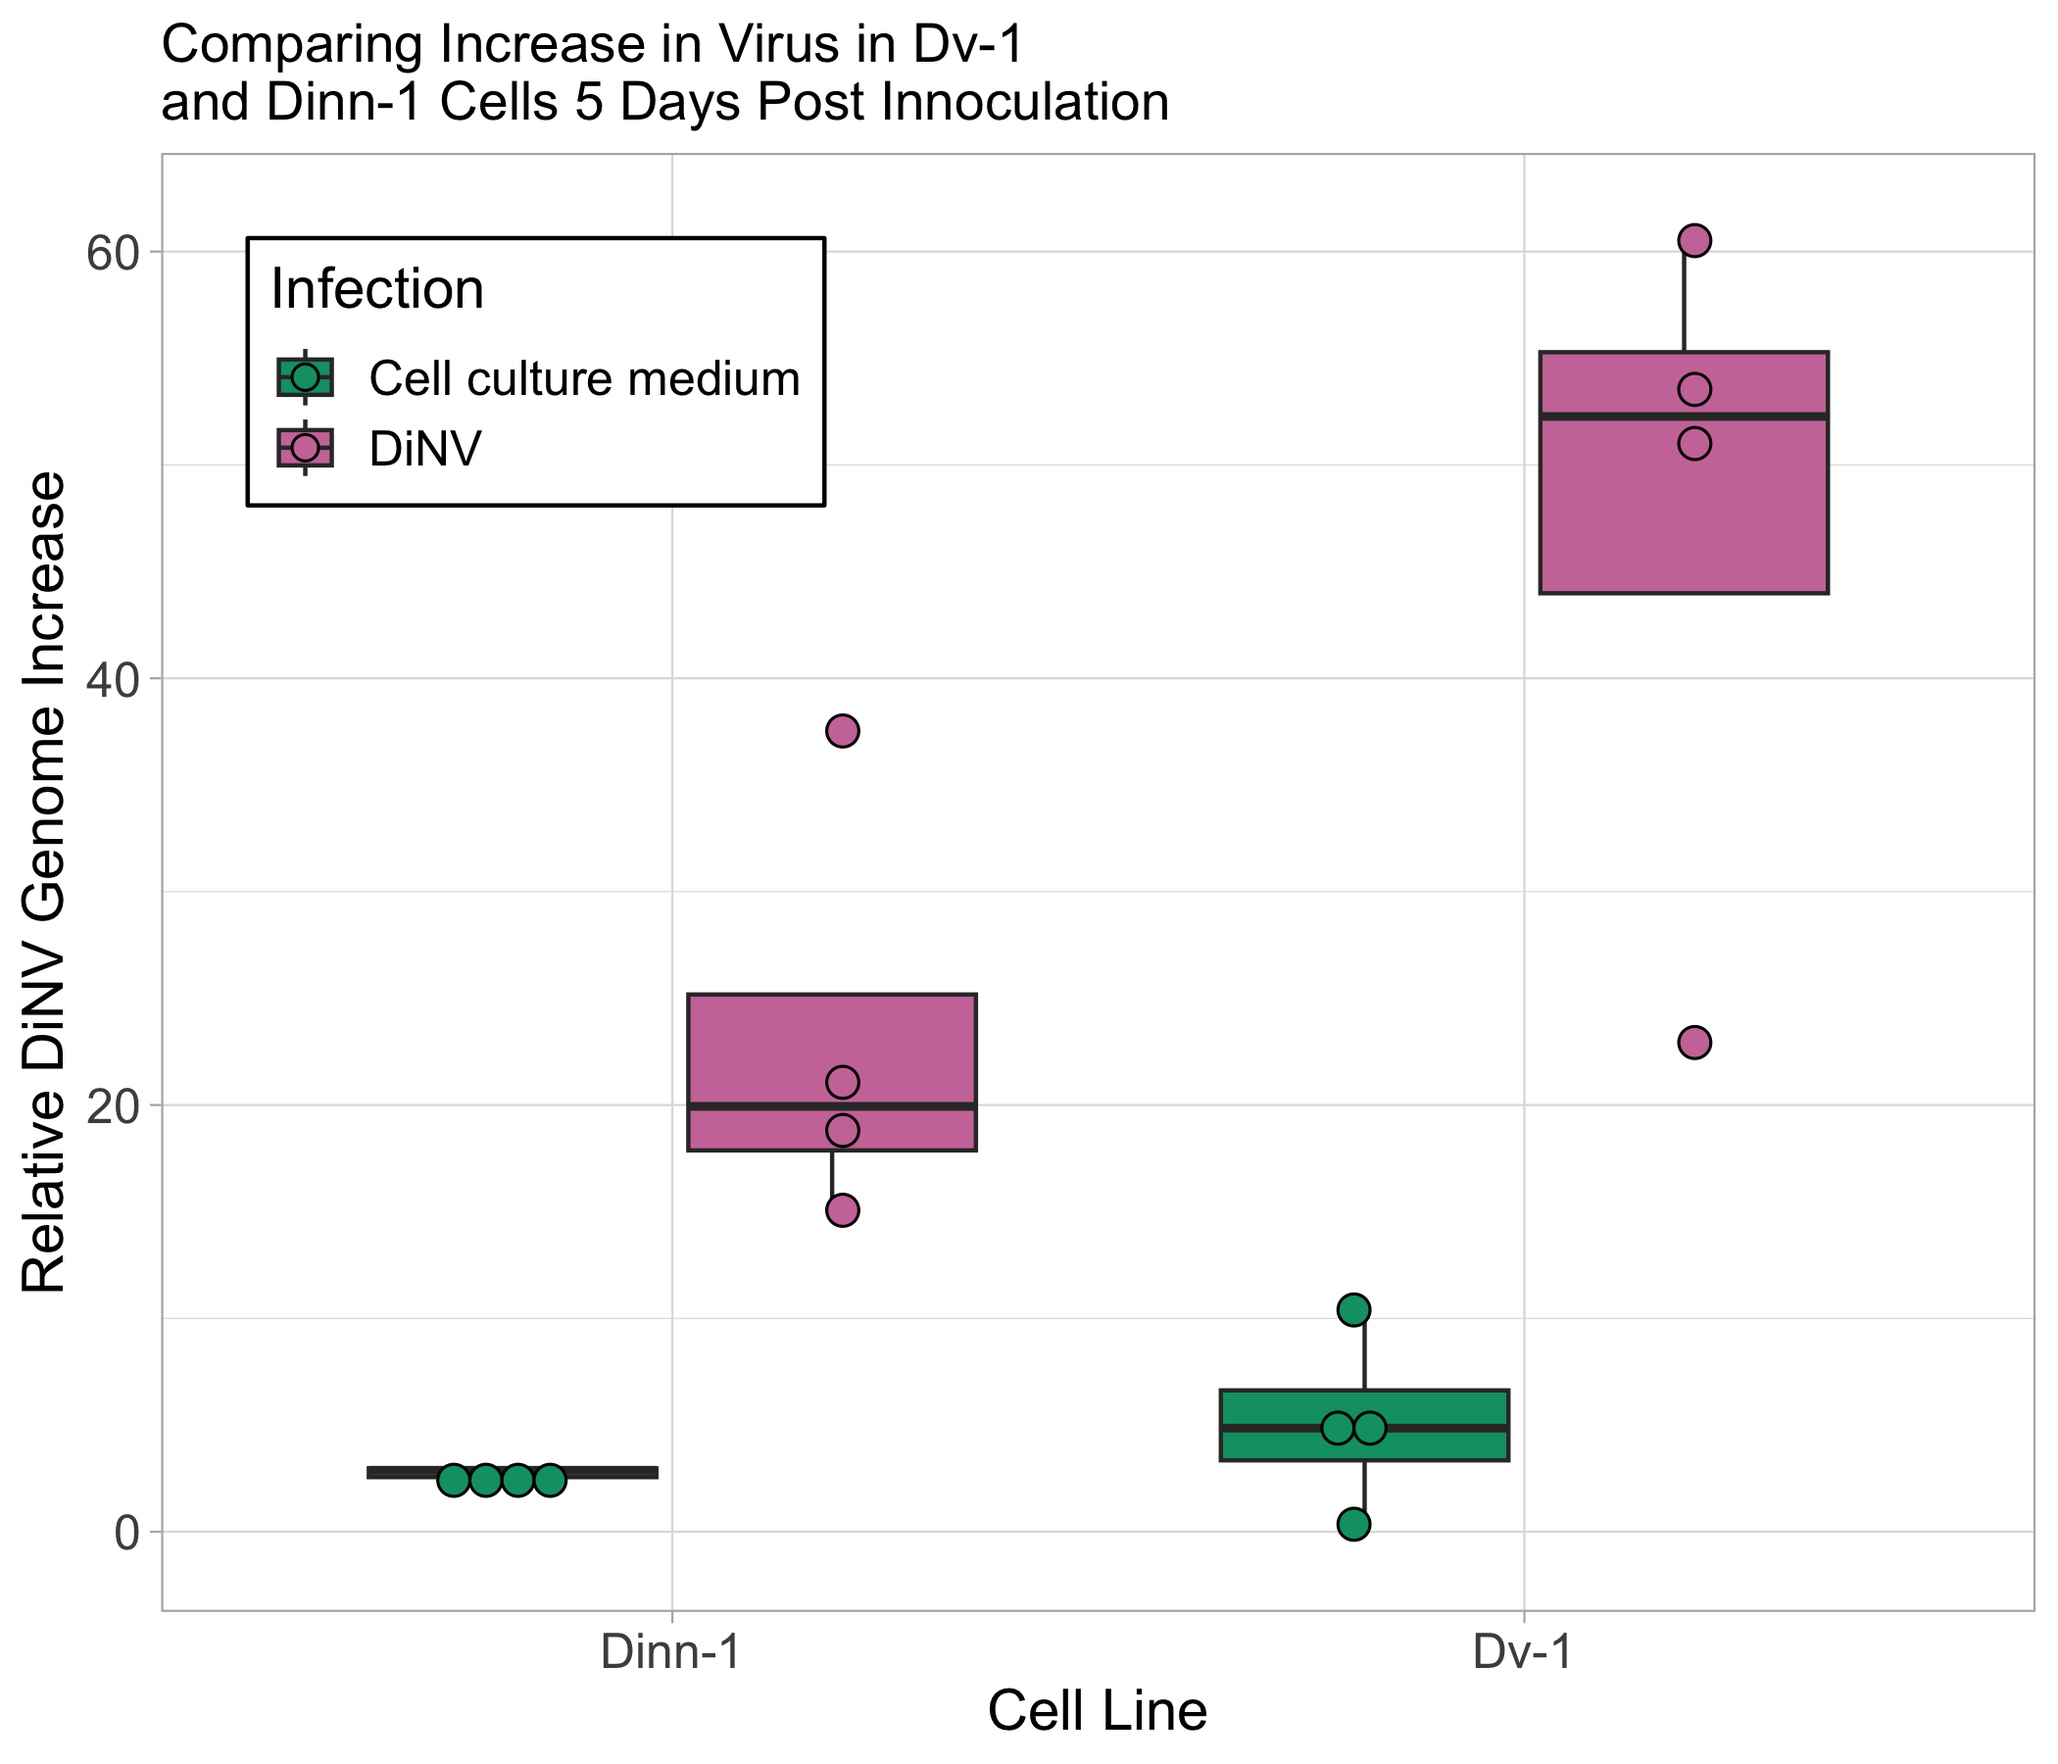
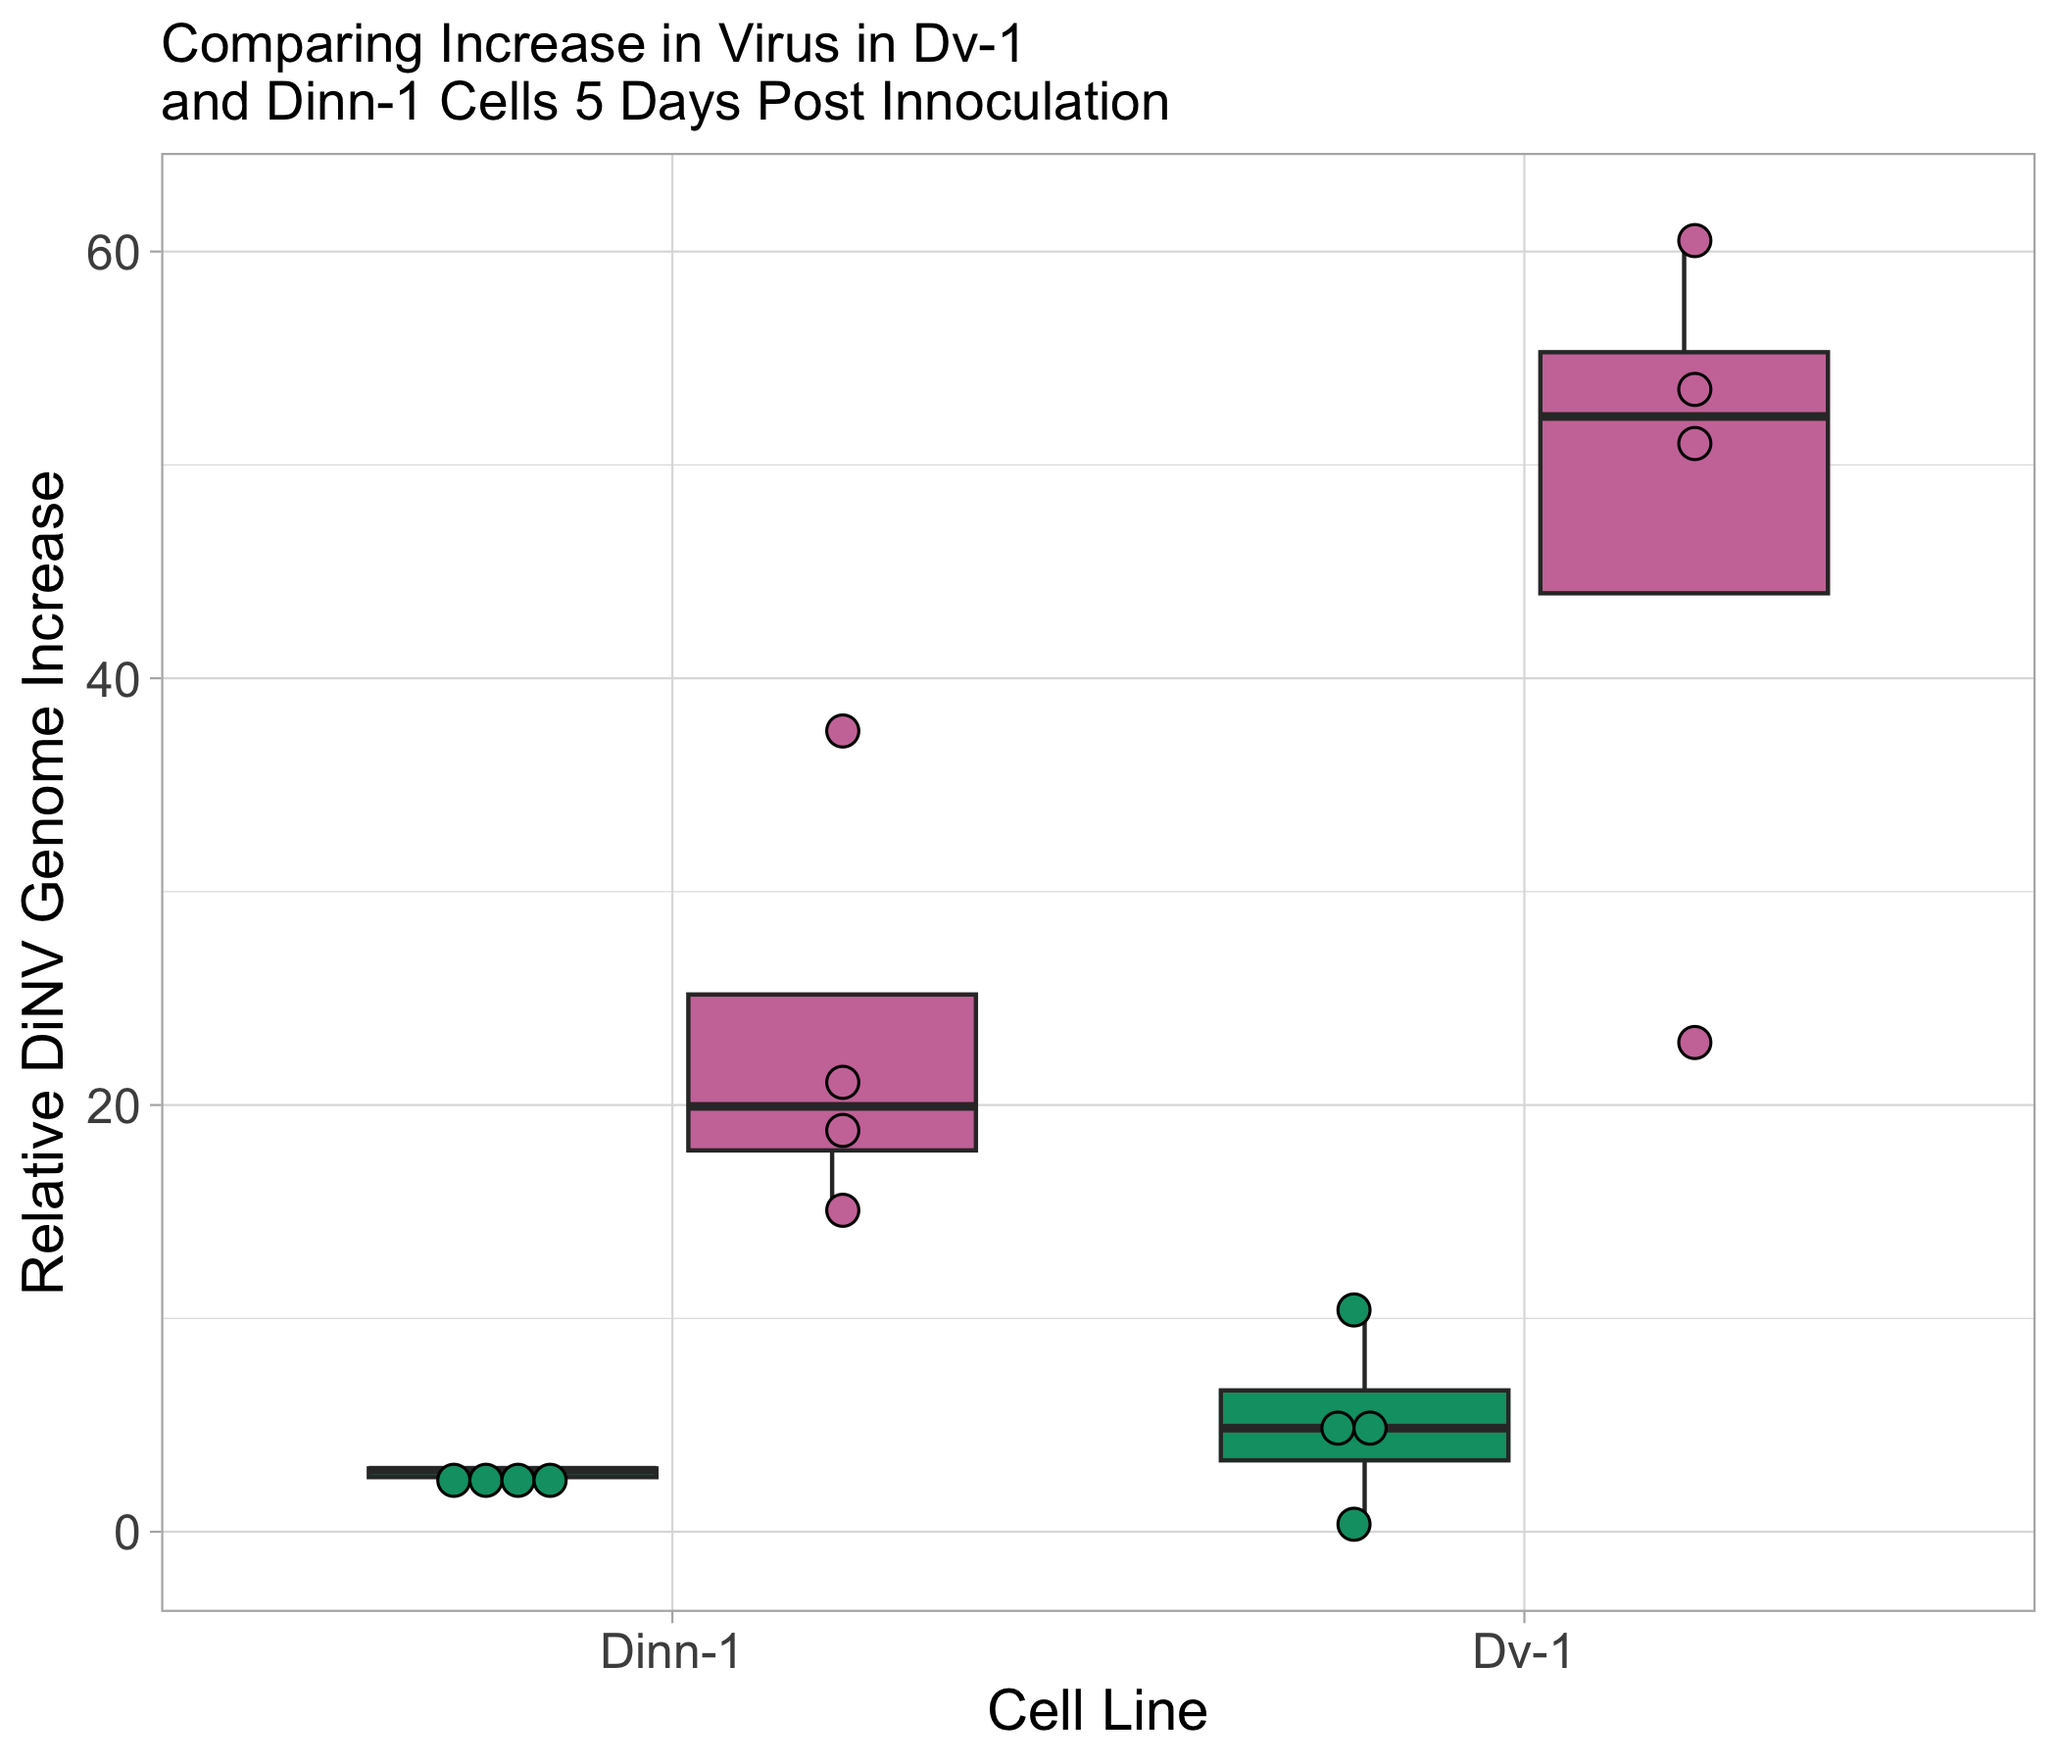
updating figures for paper

Changed region(s): [[0.1238, 0.1244, 0.4024, 0.28], [0.2476, 0.1867, 0.4024, 0.2489]]

diff --git a/qPCR_analysis/20240330-Dinn-Dv-1/20240330-Dinn-Dv-1.md b/qPCR_analysis/20240330-Dinn-Dv-1/20240330-Dinn-Dv-1.md
@@ -1374,15 +1374,18 @@ summary(aov(Dv_Dinn_c_model))
 Making figures with different color pallets for paper (colorblind
 friendly)
 
-Lambda comparison Putting legend in the plot and changing colors
+Lambda comparison
+
+changing colors
+
+no legend position because in Myd88 figure
 
 ``` r
 legend_title <- "Infection"
 
 # plot 
 ggplot(delta_delta, aes(y= delta_delta_Cq_2, x=cell_type, fill=infection)) + geom_boxplot(outlier.shape=NA)  + theme_light()  + scale_fill_manual(legend_title, values=c("#009E73", "#CC79A7"), labels= c("Cell culture medium", "DiNV")) + geom_dotplot(binaxis='y', stackdir='center', dotsize=0.75, position=position_dodge(0.8)) + scale_x_discrete(labels=c("DV-1" = "Dv-1", "Dinn" = "Dinn-1"))+ 
-  theme(axis.text=element_text(size=12),axis.title=element_text(size=14), legend.text=element_text(size=12), legend.title=element_text(size=14), legend.position = c(0.2, 0.85), 
-        legend.background = element_rect(colour = 'black', fill = 'white', linetype='solid')) +
+  theme(axis.text=element_text(size=12),axis.title=element_text(size=14), legend.text=element_text(size=12), legend.title=element_text(size=14), legend.position = "none") +
   labs(title = "Comparing Increase in Virus in Dv-1 \nand Dinn-1 Cells 5 Days Post Innoculation",y = "Relative DiNV Genome Increase", x = "Cell Line")
 ```
 

diff --git a/qPCR_analysis/20240324-Dv1-Myd88-qPCR/20240324-Dv1-Mdy88-qPCR.md b/qPCR_analysis/20240324-Dv1-Myd88-qPCR/20240324-Dv1-Mdy88-qPCR.md
@@ -877,3 +877,22 @@ aictab(cand.set = models, modnames = model.names)
 ``` r
 # model with interaction term is best model 
 ```
+
+Figure adjustments for paper
+
+change legend position
+
+``` r
+legend_title <- "Infection"
+
+# plot 
+ggplot(delta_deltar, aes(y= delta_delta_Cq_2, x=cell_type, fill=infection)) + geom_boxplot()  + theme_light()  + scale_fill_manual(legend_title, values=c("#009E73", "#CC79A7"), labels= c("Cell culture medium", "DiNV")) + geom_dotplot(binaxis='y', stackdir='center', dotsize=0.75, position=position_dodge(0.8)) + scale_x_discrete(labels=c("DV-1" = "Dv-1", "Myd88" = "Myd88"))+ 
+  theme(axis.text=element_text(size=12),axis.title=element_text(size=14), legend.text=element_text(size=12), legend.title=element_text(size=14), legend.position = c(0.8, 0.85), 
+        legend.background = element_rect(colour = 'black', fill = 'white', linetype='solid')) +
+  labs(title = "Comparing Increase in Virus in Dv-1 \nand Myd88 Cells 5 Days Post Innoculation",y = "Relative DiNV Genome Increase", x = "Cell Line")
+```
+
+    Bin width defaults to 1/30 of the range of the data. Pick better value with
+    `binwidth`.
+
+![](20240324-Dv1-Mdy88-qPCR_files/figure-commonmark/unnamed-chunk-12-1.png)
